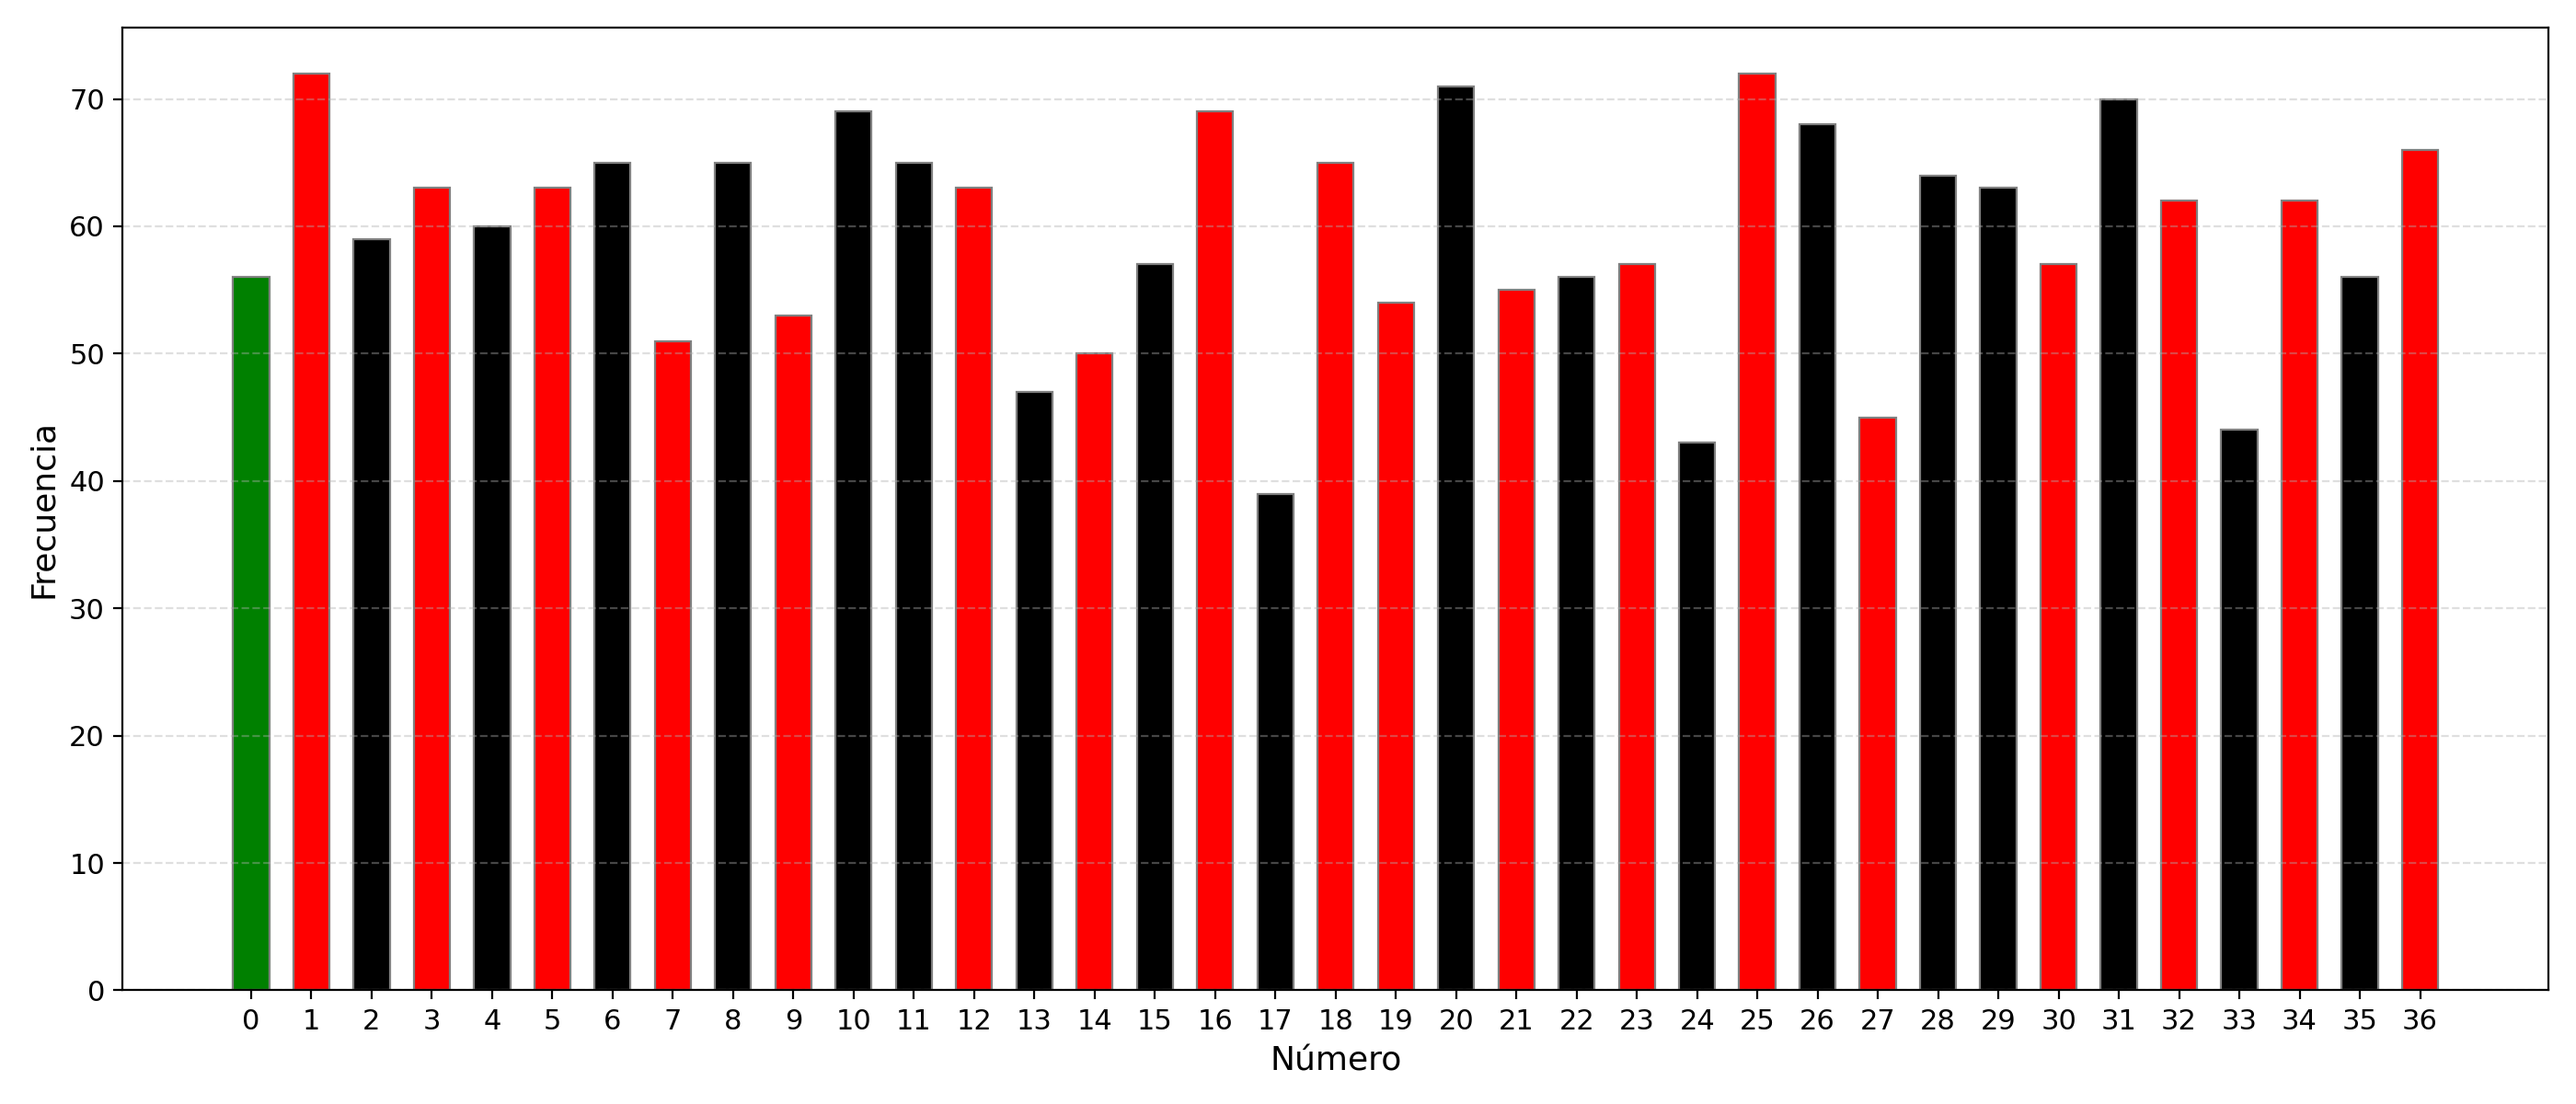
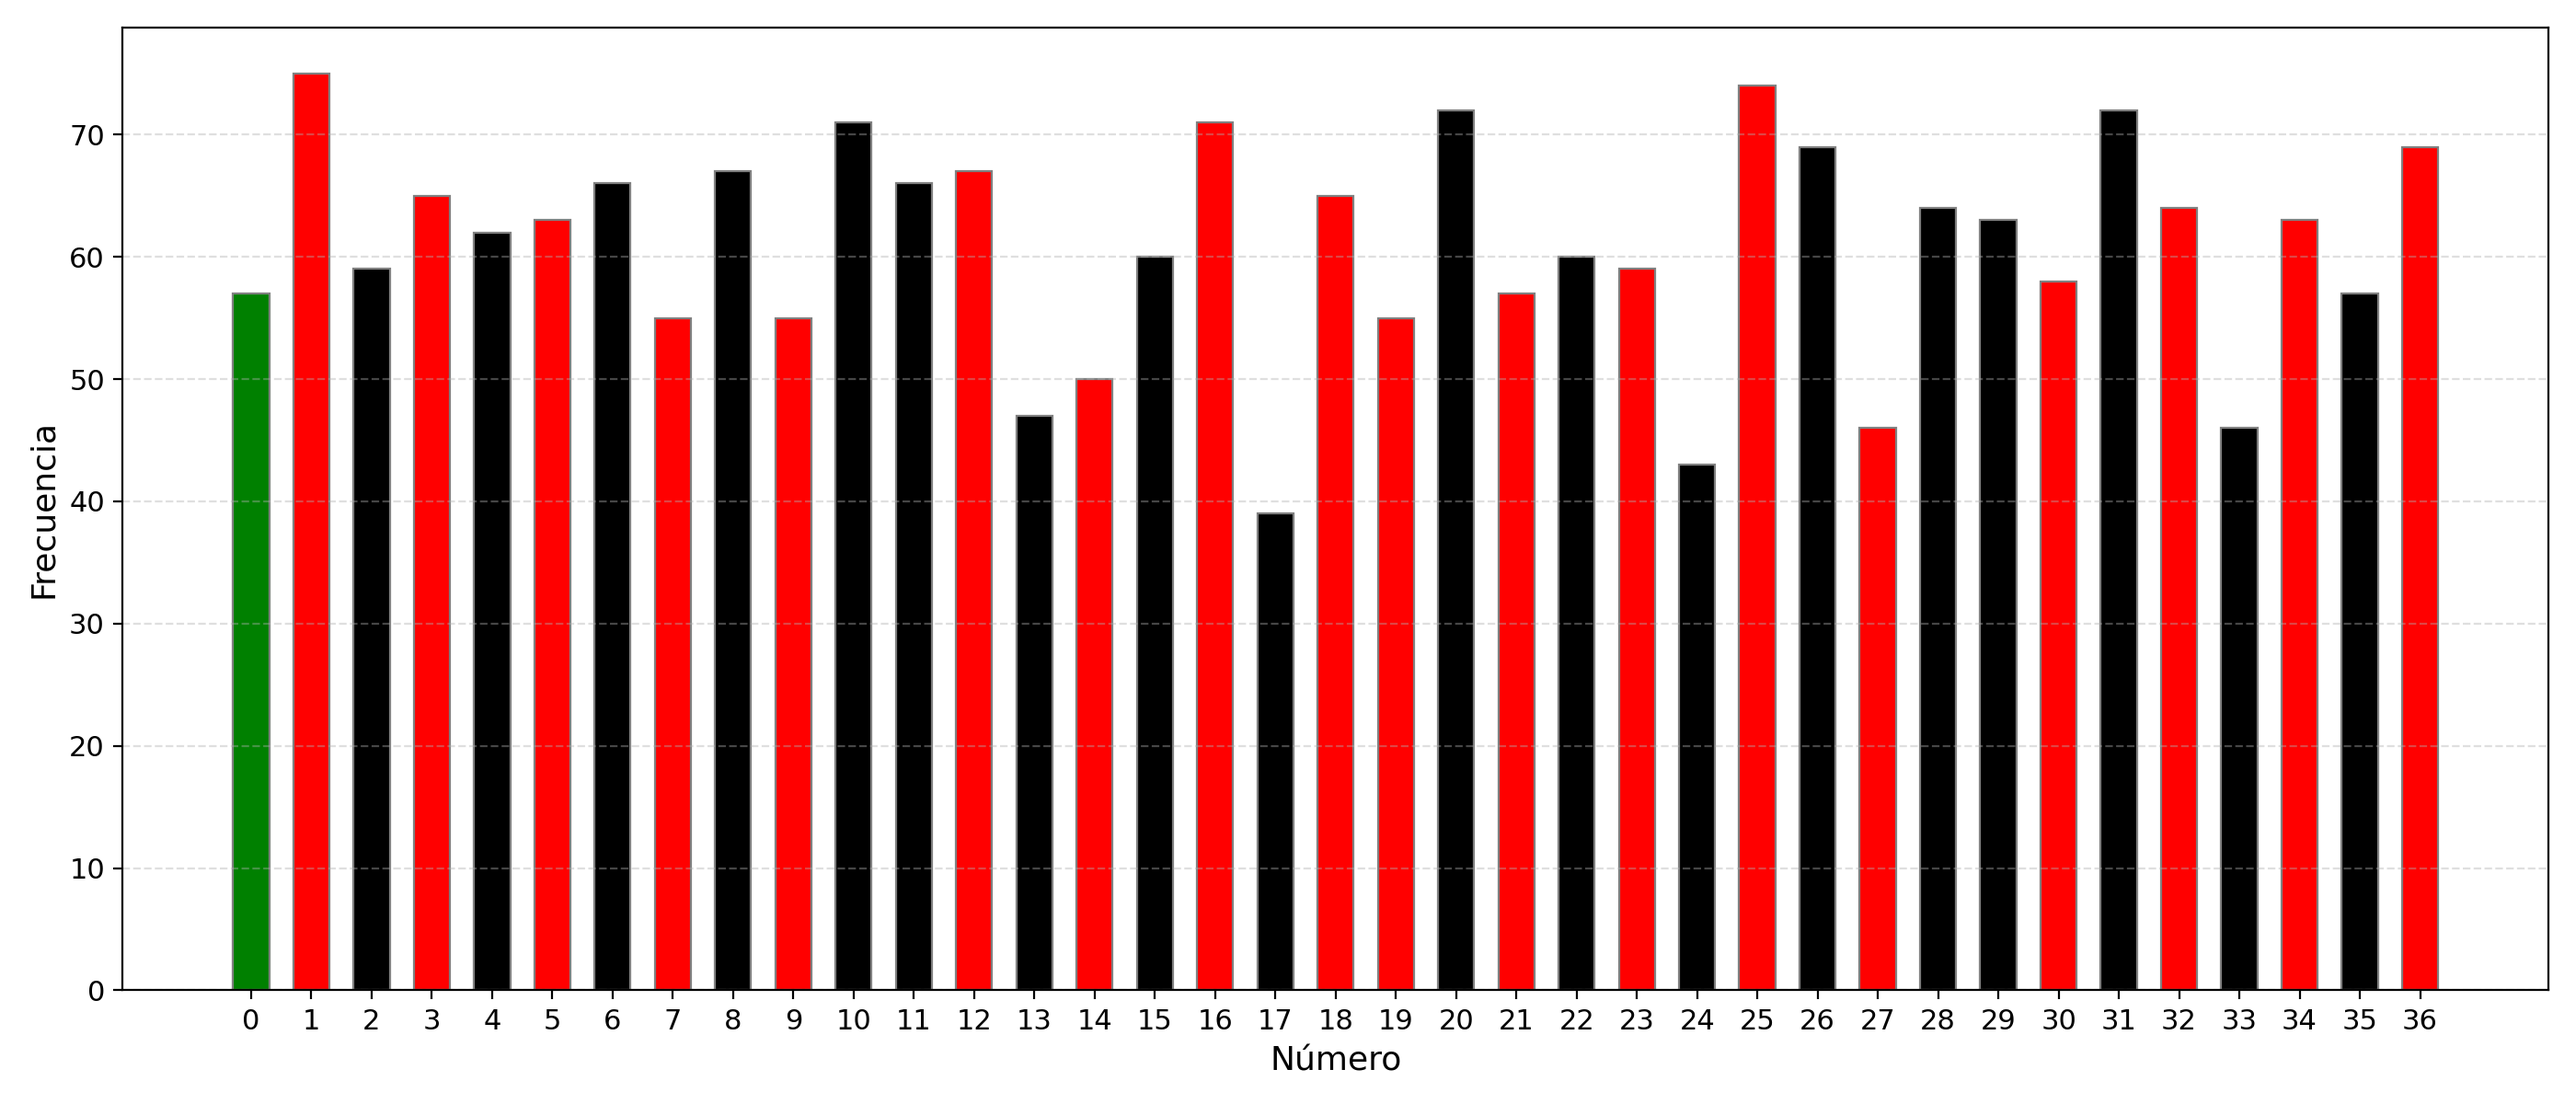
Arreglo final listo para presentar

diff --git a/Proyecto-Casino/Pantalla_juego2.py b/Proyecto-Casino/Pantalla_juego2.py
@@ -86,6 +86,10 @@ class Pantalla_juego2:
         if evento.type == pygame.MOUSEBUTTONDOWN:
             x, y = evento.pos
 
+            # NO permitir apostar si la ruleta está girando
+            if EstadoJuego.girando:
+                return
+
             if self.boton_casa.collidepoint(x, y):
                 self.cambiar_pantalla("inicio")
             elif self.boton_estadisticas.collidepoint(x, y):
@@ -449,7 +453,7 @@ class Pantalla_juego2:
 
         # Botón de reinicio si ambos están en 0
         if self.mostrar_reiniciar:
-            ancho_btn = 300
+            ancho_btn = 370  # Antes: 300
             alto_btn = 100
             x_btn = ANCHO // 2 - ancho_btn // 2
             y_btn = 200

diff --git a/Proyecto-Casino/pantalla_juego.py b/Proyecto-Casino/pantalla_juego.py
@@ -71,6 +71,10 @@ class PantallaJuego:
         if evento.type == pygame.MOUSEBUTTONDOWN:
             x, y = evento.pos
 
+            # NO permitir apostar si la ruleta está girando
+            if EstadoJuego.girando:
+                return
+
             if getattr(self, "mostrar_reiniciar", False):
                 if hasattr(self, "boton_reiniciar") and self.boton_reiniciar.collidepoint(x, y):
                     estado_juego.dinero_j1 = 100000
